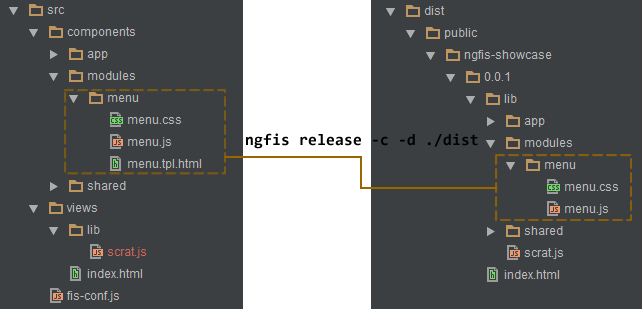
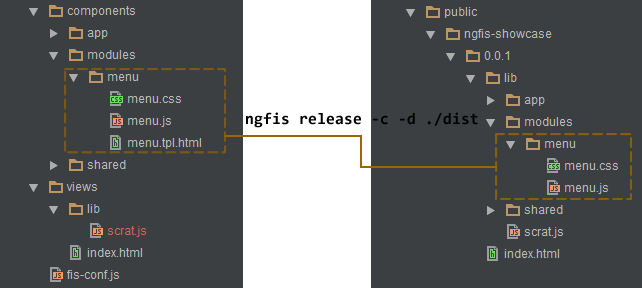
修改目录, 增加小技巧

diff --git a/posts/angular-fis/03.md b/posts/angular-fis/03.md
@@ -27,17 +27,16 @@
 #### 1.开发目录设计
 ```
 - project
-  - src
-    - component_modules         **存放外部生态模块资源**
-    - components                **存放项目模块资源**
-      - app                       - angular主入口
-      - framework                 - 项目公共模块
-      - modules                   - 项目业务模块
-    - views                     **存放页面以及非模块化资源**
-      - index.html                - HTML文件
-      - lib                       - 存放其他非模块化类库
-    - fis-conf.js               FIS的配置文件
-    - server                    NodeJS服务端程序
+  - component_modules         **存放外部生态模块资源**
+  - components                **存放项目模块资源**
+    - app                       - angular主入口
+    - framework                 - 项目公共模块
+    - modules                   - 项目业务模块
+  - views                     **存放页面以及非模块化资源**
+    - index.html                - HTML文件
+    - lib                       - 存放其他非模块化类库
+  - fis-conf.js               FIS的配置文件
+  - server                    NodeJS服务端程序
 ```
 - 模块化资源通过`require('modules/menu')`的方式调用，而views目录下的非模块化资源需要自行通过`script/link`引入。
 - 模块化资源(`app`, `framework`, `modules`等)采用`organize by feature`的部署规范，
@@ -58,18 +57,19 @@
 
 #### 2.部署目录设计
 
-
-- 按版本部署，采用非覆盖式发布
+- **按版本部署，采用非覆盖式发布。**
+  - 相关阅读：[「大公司里怎样开发和部署前端代码？」](https://github.com/fouber/blog/issues/6)
 - 以下文件不会发布：
   - `*.tpl.html`  (需内嵌到js文件，后文描述)
   - `*.inline.*`  (会被内嵌到其他文件)
   - `*.spec.js`   (仅在自动化测试时发布)
   - `*.inject.js` (仅在本地调试时嵌入)
   - 其他配置文件
+- :warning: 注意：该目录一般在临时文件目录, 而不在项目目录, 否则`fis`会读取该目录的文件，影响编译速度。
 
 目录结构如下：
 ```
-- dist
+- release
   - public
     - 项目名称
       - 版本号
@@ -95,7 +95,7 @@
 同时，也准备了工具项目：https://github.com/ng-workflow/ngfis
 
 我们通过fis的配置文件来映射目录转换，参见`ngfis/config/default.js`的`roadmap.path`配置, 关键配置如下：
-```
+```javascript
 roadmap: {
   path: [
     //tpl.html文件不发布
@@ -122,11 +122,6 @@ roadmap: {
     },
   ]
 ```
-
-
-> TIP： **在开发期，可以在工具项目中执行`npm link`即可实时更新。**
->
-> 并且为了方便调试，提供了`debug.js`，可以通过`webstorm`断点调试我们的工具。
 
 在示例项目下执行 `ngfis release -d ./dist` 即可看到发布效果，so easy~
 

diff --git a/posts/angular-fis/10.md b/posts/angular-fis/10.md
@@ -1,0 +1,49 @@
+## 量身打造angular开发解决方案(10) - 小技巧
+
+> 封装FIS解决方案时的一些小技巧分享
+
+### 断点调试
+封装`FIS解决方案`时，最常遇到的一个问题就是调试麻烦。
+
+其实我们可以在解决方案目录下(如`ngfis`)建一个`debug.js`，就可以通过`WebStorm`断点调试了。
+
+```javascript
+//change process cwd
+var root = 'D:/Workspace/Code/ng-workflow/ngfis-showcase';
+process.chdir(root);
+
+//import conf
+var fis = require('./index.js').fis;
+require(root + '/fis-conf.js');
+
+//debug release command
+var args = process.argv.concat([
+ 'release',
+ '-c',
+ '-p',
+ '-d', '../dist'
+]);
+
+fis.cli.run(args);
+
+```
+
+### 调试Command插件
+当我们的`FIS解决方案`需要用到插件时，本地调试也比较麻烦， 总不能改一下插件就`npm install`一次。
+
+其实`node`官方已经给出解决方案：
+- 在插件目录下(如`ngfis-command-install`)执行`npm link`
+- 在解决方案目录下(如`ngfis`)执行`npm link ngfis-command-install`
+- 搞定~
+
+### FIS插件inline
+有时候， 我们的一个command插件很简单，不想单独分一个类库出来， 不方便维护。
+
+我们可以用以下技巧解决（希望`fis`能提供官方支持）：
+
+```javascript
+//register command plugins
+['install', 'karma'].forEach(function(name){
+  fis.require._cache['command-' + name] = require('./lib/command/' + name);
+});
+```

diff --git a/posts/angular-fis/04.md b/posts/angular-fis/04.md
@@ -1,9 +1,16 @@
 ## 量身打造angular开发解决方案(4) - 模块化框架
 
+> 前端模块化框架肩负着 模块管理、资源加载 两项重要的功能，这两项功能与工具、性能、业务、部署等工程环节都有着非常紧密的联系。因此，模块化框架的设计应该最高优先级考虑工程需要。
+
 ### 1. Why Not RequireJS/SeaJS/Browserify
 
 原因很简单：
-> 以纯前端方式来实现模块依赖加载不能同时解决性能优化问题。
+> 以纯前端方式实现模块化框架 **不能** 同时满足 `按需加载`，`请求合并` 和 `依赖管理` 三个需求。
+>
+> 导致这个问题的根本原因是： `纯前端方式只能在运行时分析依赖关系。`
+>
+> 详细论述参见： [「前端工程与模块化框架」](https://github.com/fouber/blog/issues/4)
+
 
 先谈谈`Browserify`，其实我一直不喜欢这东西，所有文件都打包在一起，太臃肿了，直接排除掉。它宣称的`前后端代码复用`也是个伪需求，实际工程中没有多少需要前后端复用的东西。无法理解它的存在意义。
 

diff --git a/posts/angular-fis/01.md b/posts/angular-fis/01.md
@@ -32,10 +32,15 @@
 
 ---
 ### 2.目录
-- [需求调研和分析](02.md)  - 我们需要怎么样的一款工具？
-- [开发规范和部署规范](03.md) - 知己知彼方能百战百胜
+- [前言](01.md)
+- [需求调研和分析](02.md)
+- [开发规范和部署规范](03.md)
 - [模块化框架](04.md)
-- 辅助命令
-- ...
-- 用户手册
-- 总结
+- [生态模块](05.md)
+- [项目模块](06.md)
+- [自动化测试](07.md)
+- [脚手架工具](08.md)
+- [辅助命令](09.md)
+- [小技巧](10.md)
+- [用户手册](11.md)
+- [总结](12.md)

diff --git a/posts/angular-fis/02.md b/posts/angular-fis/02.md
@@ -1,6 +1,6 @@
 ## 量身打造angular开发解决方案(2) - 需求调研
 
-> 兵马未动粮草先行，我们的第一步工作就是分析需求。
+> 兵马未动粮草先行，我们的第一步工作就是分析需求：我们需要怎么样的一款工具？
 
 ### 需求调研
 
